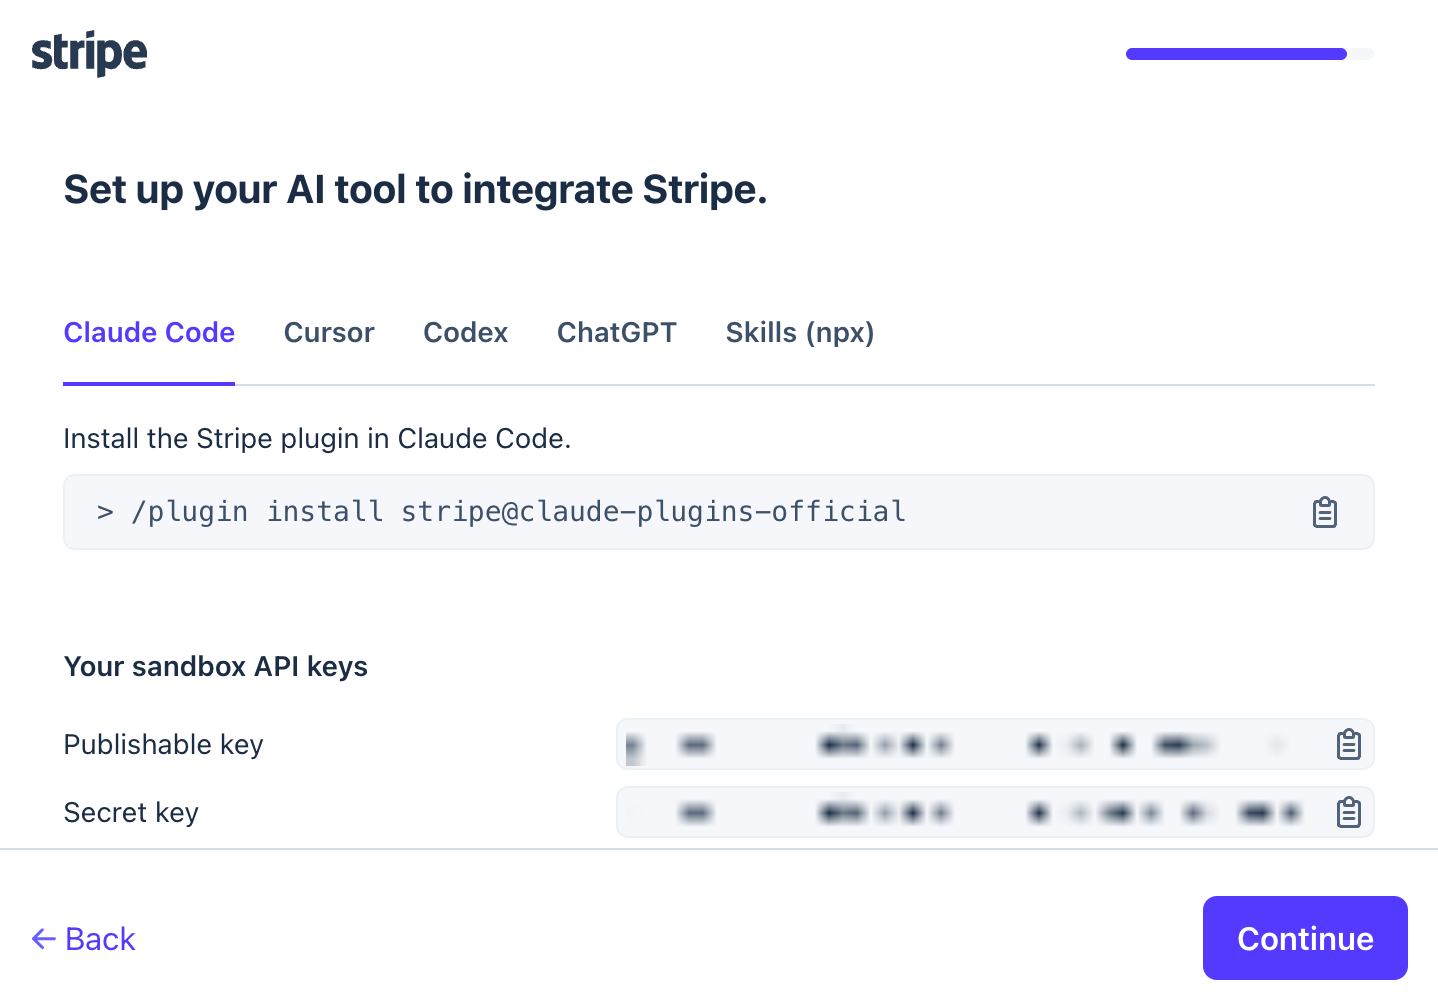
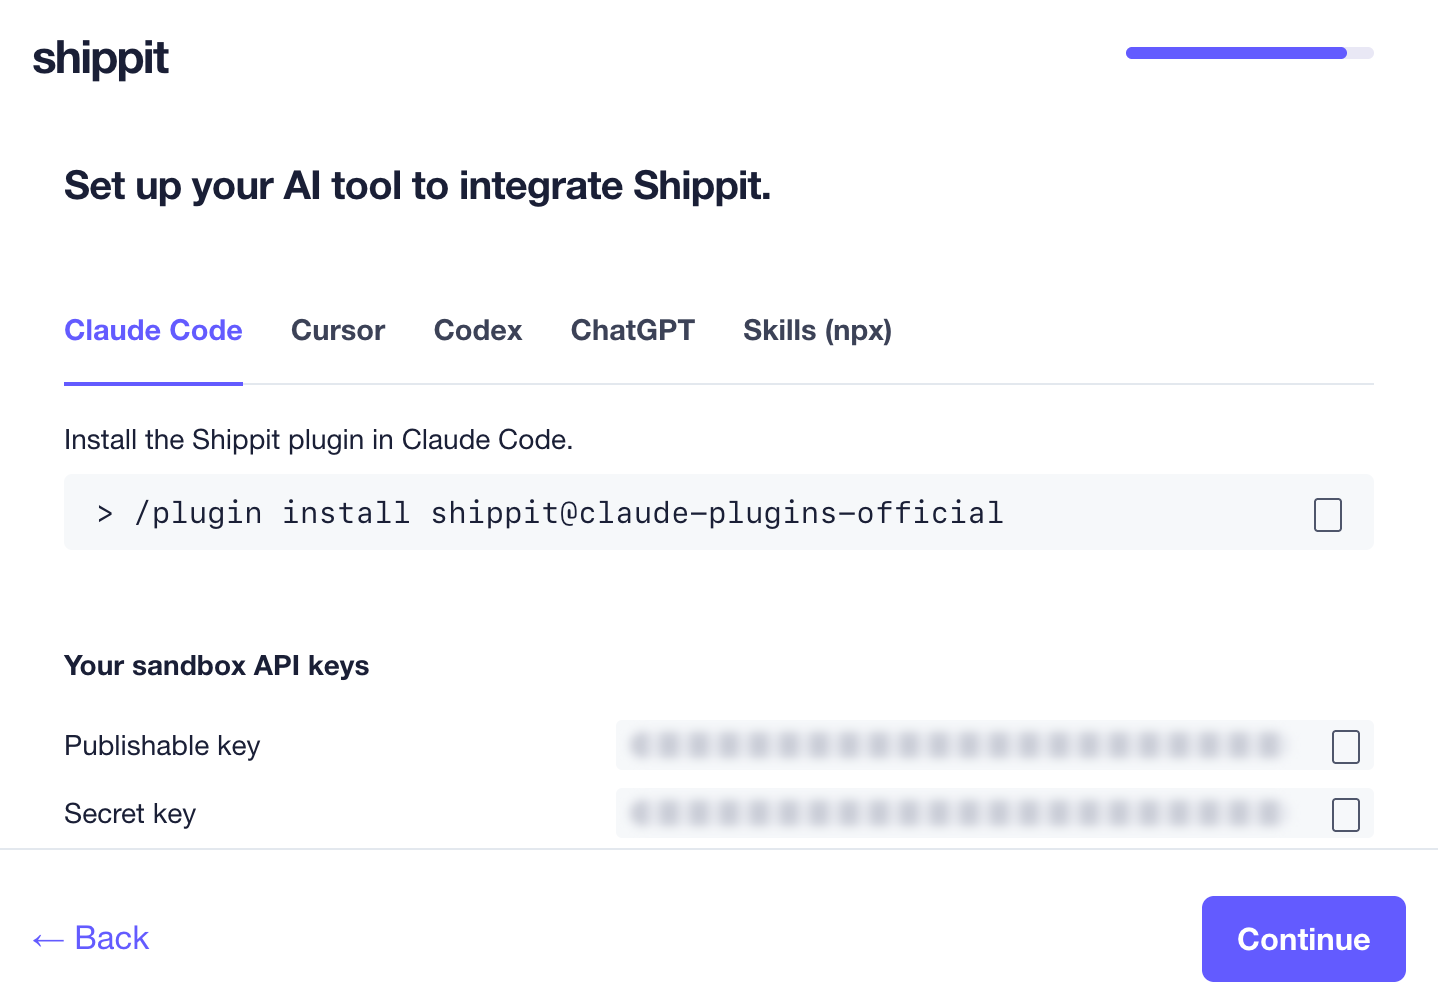
Slide 21: onboarding screen re-rendered as a Shippit concept (Stripe wording swapped), notes updated

diff --git a/bandung-api-mission-presentation/index.html b/bandung-api-mission-presentation/index.html
@@ -720,8 +720,8 @@ h2{font-size:clamp(22px,2.45vw,40px);max-width:30ch;margin-bottom:.4vh}
 
   <section class="slide" data-slide="21">
     <div class="kicker">21 / Reference</div>
-    <div class="solo"><img class="stripe-shot" src="./assets/stripe-setup.png" alt="Stripe onboarding screen: set up your AI tool to integrate Stripe, with tabs for Claude Code, Cursor, Codex, ChatGPT and Skills, a one-line plugin install command, and sandbox API keys"></div>
-    <aside class="notes-src">Stripe, today. Onboarding starts by asking which AI tool you use. One line installs the plugin, the sandbox keys are right there, and you are integrating before you have read a page of docs. This is the bar for what software-operated onboarding feels like from the outside.</aside>
+    <div class="solo"><img class="stripe-shot" src="./assets/stripe-setup.png" alt="Concept onboarding screen, modelled on Stripe: set up your AI tool to integrate Shippit, with tabs for Claude Code, Cursor, Codex, ChatGPT and Skills, a one-line plugin install command, and sandbox API keys"></div>
+    <aside class="notes-src">This is a mock, built on Stripe's real onboarding screen with our name swapped in. Stripe does this today: onboarding starts by asking which AI tool you use, one line installs the plugin, the sandbox keys are right there, and you are integrating before you have read a page of docs. Imagine this as Shippit. That is the bar for software-operated onboarding.</aside>
     <div class="footer"><span>API Mission · Bandung</span><span class="slide-no">21 / 24</span></div>
   </section>
 

diff --git a/MEMORY.md b/MEMORY.md
@@ -218,3 +218,4 @@ Historical 2024 public API discovery has been extracted into `API_RESEARCH_LEDGE
 - **Added** slide 21 (image only) after "Build all missing endpoints": Stripe's "Set up your AI tool to integrate Stripe" onboarding screen. Sandbox key values pixelated before publishing because the deck is public. Deck is 24 slides.
 - **Thesis (slide 14)** trimmed to "MCP discovers. / APIs execute." at Ashwin's instruction. Title slide 1 still previews all three lines including "Identity makes it safe" — flagged, not changed.
 - **Shipped:** commit 2e97e20 to GitHub Pages; Claude artifact republished at the same URL.
+- **2026-09-22 later:** title-slide preview trimmed to two lines to match slide 14; close (slide 24) now reads "Make Shippit addressable for software to operate", second line removed. Commit 94de4f4 pushed; artifact republished.
